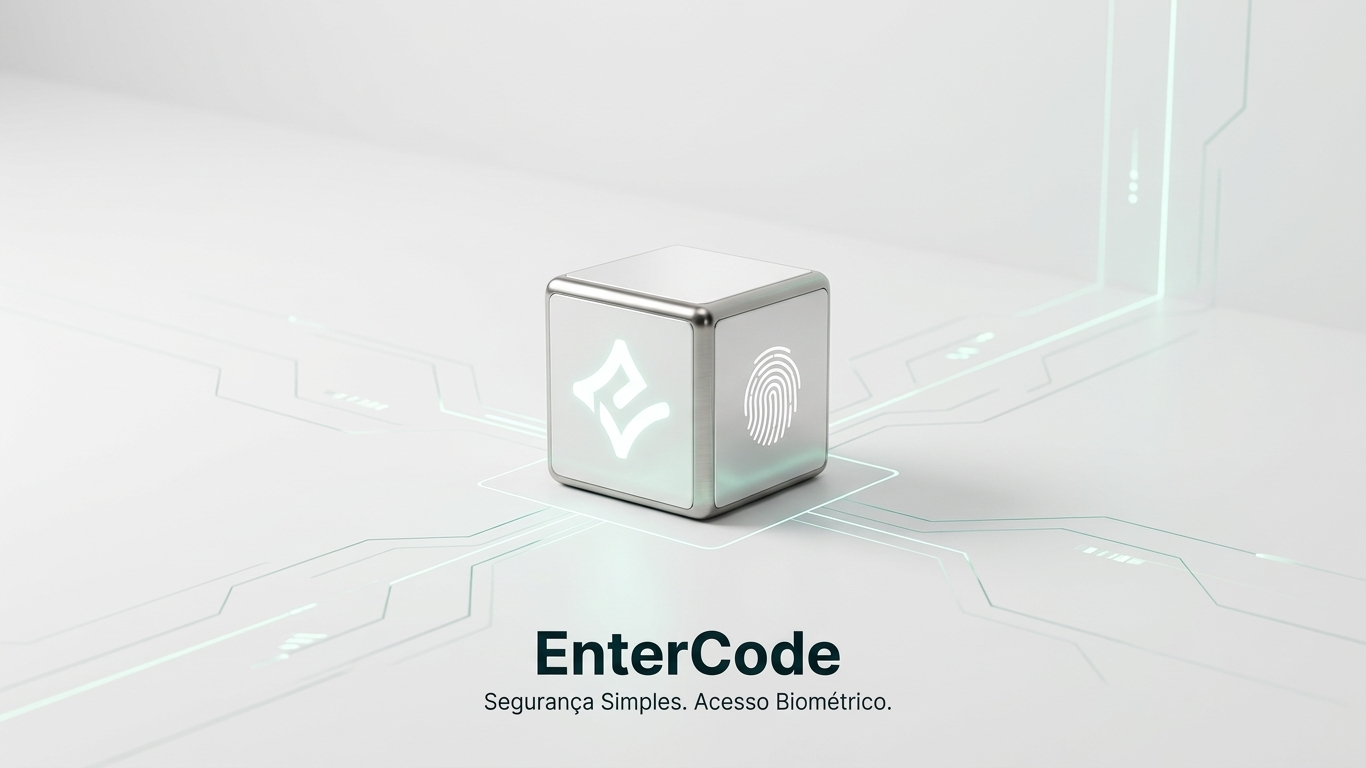
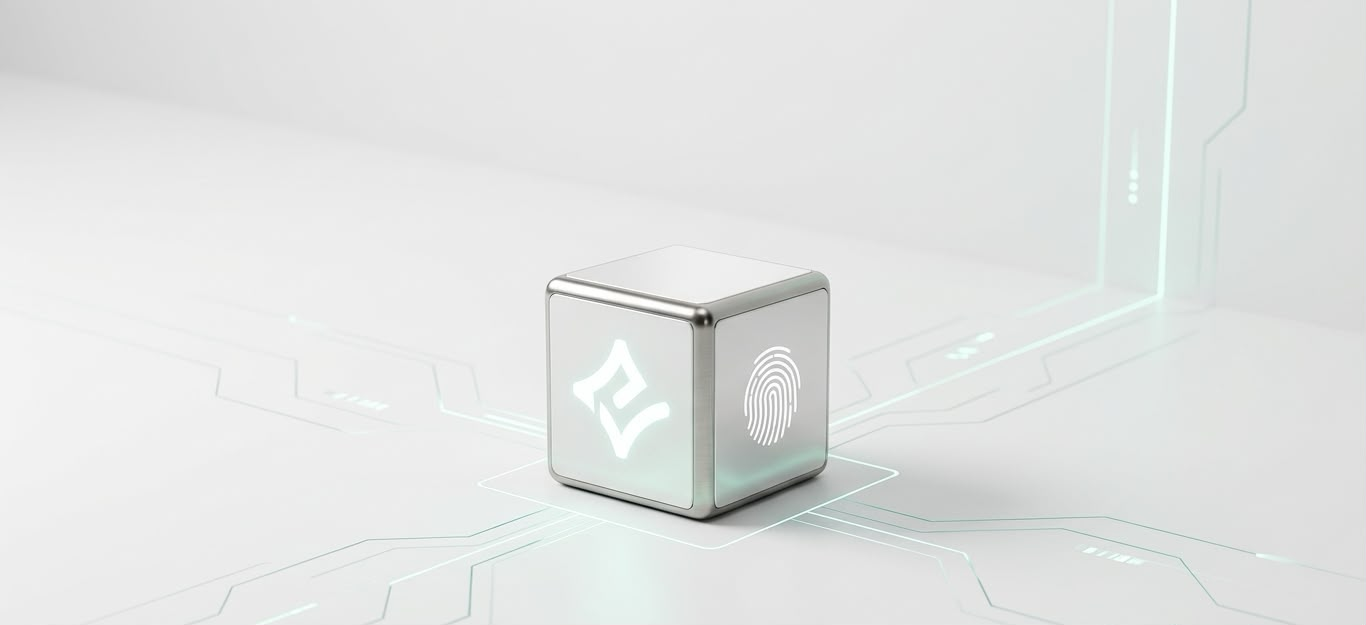
media queires adicionado

Changed region(s): [[0.3382, 0.3344, 0.8302, 0.9424], [0.7994, 0.8816, 0.8302, 0.912]]

diff --git a/style.css b/style.css
@@ -3,10 +3,12 @@
     padding: 0;
     box-sizing: border-box;
 }
+
 html {
     scroll-behavior: smooth;
 }
-body *{
+
+body * {
     font-family: "Inter", sans-serif;
     color: #000000;
 }
@@ -15,67 +17,85 @@ body *{
     display: flex;
     justify-content: space-between;
     padding: 15px 40px;
-    background-color: rgba(255, 255,255, 0.2); 
+    background-color: rgba(255, 255, 255, 0.2); 
     backdrop-filter: blur(12px);
     -webkit-backdrop-filter: blur(12px);
     position: fixed;
     top: 0;
     width: 100%;
     z-index: 9999;
-    max-height: 50vh;
 }
-span{
+
+span {
     color: #23c49e;
 }
+
 #logo {
     display: flex;
+    align-items: center;
+    gap: 10px;
 }
-#logo p{
+
+#logo p {
     pointer-events: none;
+    color: #000000;
 }
+
 #logo img {
     width: 40px;
     height: 40px;
 }
+
 .menu-l {
     display: flex;
     gap: 30px;
+    align-items: center;
 }
-#links a{
+
+#links a {
     text-decoration: none;
+    color: #000000;
+    font-weight: 500;
 }
+
 #links a:hover {
     color: #23c49e;
 }
+
 section {
     min-height: 100vh;      
     padding: 60px 40px;
     box-sizing: border-box;
 }
 
-
 /* SEÇÃO INÍCIO */
 #inicio {
     display: flex;
+    align-items: center;
+    justify-content: space-between;
     gap: 40px;
     padding-top: 140px; 
     background-image: url(assets/background.jpeg);
     background-position: center 80px;
+    background-repeat: no-repeat;
+    background-size: cover; 
 }
+
 #bloco-texto {
     display: flex;
     flex-direction: column;
     padding: 30px;
     background-color: rgba(255, 255, 255, 0.15); 
-    border: 1px solid rgba(63, 20, 20, 0.3); 
+    border: 1px solid rgba(255, 255, 255, 0.3); 
     backdrop-filter: blur(8px);
     -webkit-backdrop-filter: blur(8px);
     border-radius: 20px;
     max-width: 650px;
 }
+
 #inicio h1 {
     font-size: 50px;
-    color: #080808;
+    color: #000000; 
     line-height: 1.2;
     margin-bottom: 15px;
 }
@@ -86,13 +106,15 @@ section {
 
 #inicio p {
     font-size: 18px;
-    color: #000000;
+    color: #000000; /* Tom claro para legibilidade */
     line-height: 1.5;
 }
-#inicio img{
+
+#inicio img {
     width: 600px;
-    border: 1px solid rgba(63, 20, 20, 0.3);
+    border: 1px solid rgba(255, 255, 255, 0.3);
     border-radius: 20px;
+    object-fit: contain;
 }
 
 /* SEÇÃO SOLUÇÃO */
@@ -103,6 +125,7 @@ section {
     align-items: center;
     text-align: center;
     padding: 80px 40px;
+    min-height: auto; /* CORRIGIDO: Evita que fique com 100vh em branco excessivo */
 }
 
 #solucoes h1 {
@@ -161,6 +184,49 @@ section {
     font-size: 15px;
     line-height: 1.5;
 }
+
 #tecnologia {
     background-color: #e2e8f0;
+}
+
+/* RESPONSIVIDADE */
+@media (max-width: 1024px) {
+    #inicio {
+        flex-direction: column; 
+        align-items: center;    
+        text-align: center;     
+        padding-top: 100px;     
+        gap: 30px;
+    }
+
+    #bloco-texto {
+        max-width: 100%;        
+    }
+
+    #inicio h1 {
+        font-size: 38px;        
+    }
+
+    #inicio img {
+        width: 100%;            
+        max-width: 500px;       
+    }
+}
+
+@media (max-width: 600px) {
+    #inicio {
+        padding: 90px 20px 40px 20px; 
+    }
+
+    #bloco-texto {
+        padding: 20px;          
+    }
+
+    #inicio h1 {
+        font-size: 28px;        
+    }
+
+    #inicio p {
+        font-size: 16px;        
+    }
 }
